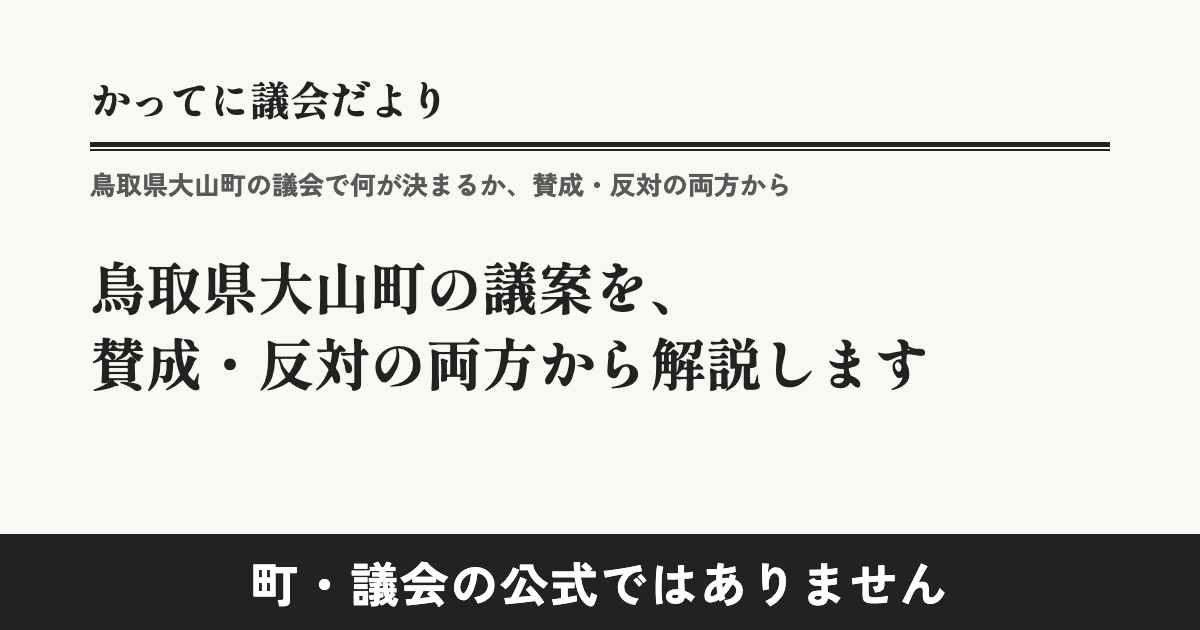
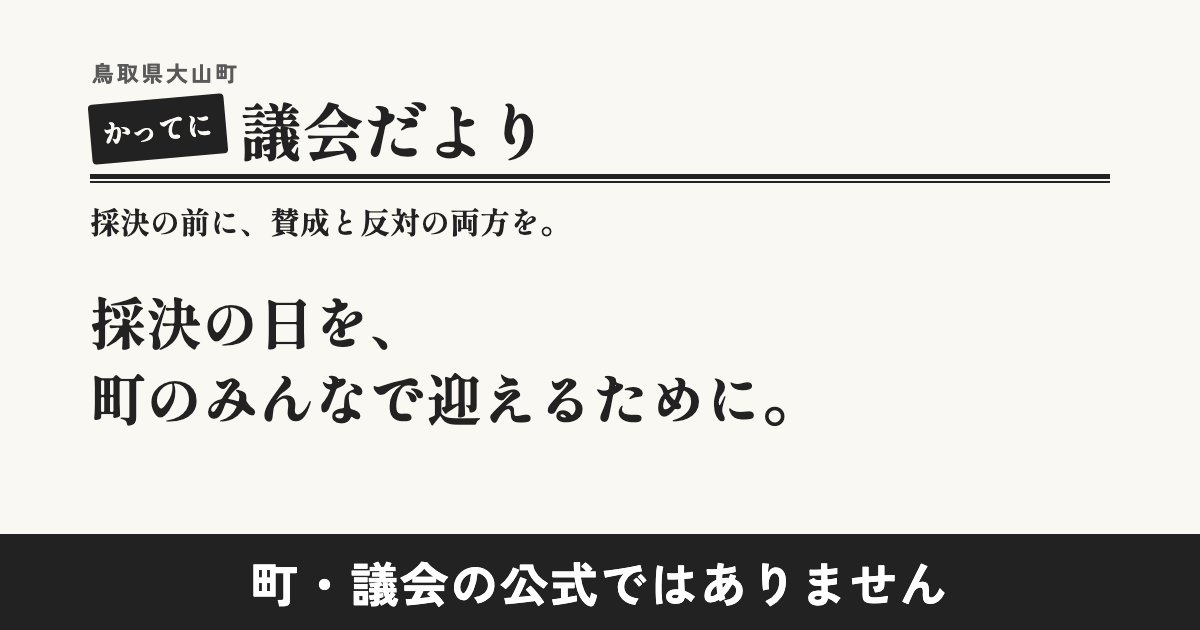
題字をロゴ化、副題とトップを見直し、運営方針・ルール・プライバシー・お知らせ・運営者ページを整理
- 題字を「かってに」の判子＋大きな「議会だより」に。副題は「採決の前に、賛成と反対の両方を。」
- トップ：採決の前に出すことを軸にした導入、第1号のダイジェストと「続きを読む」、採決までの流れ図、お約束を箇条書きに
- 「採決前に全議員へ届ける」をやめ、委員会審査の約3日後に公開・採決まで約1週間声を受け付ける流れに
- 運営方針から取材・届け方・訂正と反論・改定記録を削除。議員向けページも同様に整理
- 投稿のルールを「基本匿名・実名も歓迎・不適切な内容は運営者判断で削除」に
- プライバシーから使い道・保存先と期間・改定記録を削除
- お知らせは当面Instagram・Facebook。届くものを2〜3回に
- 運営者ページに経歴（年表）とSNS、フッターに運営者についてのリンク。広告・寄付の記載を削除
- OGP画像を新しい題字で作り直し

Changed region(s): [[0.0617, 0.0905, 0.925, 0.3921], [0.0617, 0.4222, 0.7708, 0.6937]]

diff --git a/src/styles/global.css b/src/styles/global.css
@@ -43,17 +43,29 @@ p { margin: 0 0 1em; }
 .wide { max-width: 960px; margin: 0 auto; padding: 0 20px; }
 
 /* 非公式の帯 */
-.hikoshiki { background: var(--kiri); border-bottom: 1px solid var(--kei); font-size: 15px; line-height: 1.5; }
+.hikoshiki { background: var(--kiri); border-bottom: 1px solid var(--kei); font-size: 14px; line-height: 1.5; }
 .hikoshiki a { display: block; padding: 8px 20px; max-width: 960px; margin: 0 auto; text-decoration: none; }
 
 /* ヘッダー */
-.site-header { max-width: 960px; margin: 0 auto; padding: 14px 16px 6px 20px; display: flex; justify-content: space-between; align-items: flex-start; gap: 8px; }
-@media (min-width: 768px) { .daiji { font-size: 24px; } }
-.daiji { font-family: var(--mincho); font-weight: 800; font-size: 19px; line-height: 1.2; margin: 0; white-space: nowrap; }
-.daiji a { text-decoration: none; }
-.daiji small { font-size: 1em; margin-left: .3em; }
-.site-header .futasuji { margin-top: 6px; }
-.fukudai { font-size: 15px; color: var(--usuzumi); line-height: 1.5; margin: 6px 0 0; }
+.site-header { max-width: 960px; margin: 0 auto; padding: 16px 16px 8px 20px; }
+.head-row { display: flex; justify-content: space-between; align-items: flex-end; gap: 8px; }
+.logo { display: inline-block; text-decoration: none; color: var(--sumi); line-height: 1; }
+.logo-place { display: block; font-size: 13px; font-weight: 700; letter-spacing: .12em; color: var(--usuzumi); margin: 0 0 6px 2px; }
+.logo-row { display: flex; align-items: center; gap: 8px; white-space: nowrap; }
+.logo-katte {
+  display: inline-block; background: var(--sumi); color: var(--kami);
+  font-family: var(--mincho); font-weight: 800; font-size: clamp(12px, 3.6vw, 15px); letter-spacing: .04em;
+  padding: 6px 7px 7px; border-radius: 3px; transform: rotate(-5deg); flex-shrink: 0;
+}
+.logo-main { font-family: var(--mincho); font-weight: 800; font-size: clamp(25px, 7.4vw, 34px); letter-spacing: .02em; }
+@media (min-width: 768px) {
+  .logo-place { font-size: 14px; }
+  .logo-katte { font-size: 19px; padding: 7px 9px 8px; }
+  .logo-main { font-size: 46px; }
+}
+.site-header .futasuji { margin-top: 10px; }
+.fukudai { font-family: var(--mincho); font-weight: 700; font-size: 17px; color: var(--sumi); line-height: 1.5; margin: 8px 0 0; }
+@media (min-width: 768px) { .fukudai { font-size: 20px; } }
 .tbtn {
   white-space: nowrap;
   font: 700 15px/1.2 var(--gothic); min-height: 48px; min-width: 48px; padding: 4px 8px; flex-shrink: 0;
@@ -149,15 +161,43 @@ table.data td.n { text-align: right; white-space: nowrap; }
 .kairan h2 { font-family: var(--mincho); font-size: calc(var(--base) * 1.2); margin: 0 0 8px; }
 
 /* トップ */
-.hero { padding: 26px 0 8px; }
-.hero p { font-size: calc(var(--base) * 1.05); }
-.feature { background: var(--men); border: 1px solid var(--sumi); padding: 0 18px 18px; margin: 18px 0 28px; display: block; text-decoration: none; }
-.feature > .futasuji { margin: 0 -18px 12px; }
-.feature .t { font-family: var(--mincho); font-weight: 700; font-size: calc(var(--base) * 1.35); line-height: 1.45; margin: 4px 0 8px; display: block; }
-.steps { list-style: none; padding: 0; margin: 10px 0 0; counter-reset: s; }
-.steps li { border-left: 1px solid var(--sumi); padding: 0 0 14px 18px; position: relative; }
-.steps li::before { counter-increment: s; content: counter(s); position: absolute; left: -12px; top: 0; width: 24px; height: 24px; background: var(--kami); border: 1px solid var(--sumi); border-radius: 50%; font-size: 14px; line-height: 22px; text-align: center; font-weight: 700; }
-.steps li:last-child { border-left-color: transparent; }
+.hero { padding: 28px 0 6px; }
+.hero .catch { font-family: var(--mincho); font-weight: 800; font-size: calc(var(--base) * 1.55); line-height: 1.5; margin: 0 0 14px; word-break: auto-phrase; text-wrap: balance; }
+.hero p { font-size: calc(var(--base) * 1.02); line-height: 1.85; margin: 0 0 10px; }
+.hero .who { display: grid; grid-template-columns: 1fr; gap: 10px; margin: 16px 0 0; }
+@media (min-width: 600px) { .hero .who { grid-template-columns: 1fr 1fr; } }
+.hero .who div { background: var(--men); border: 1px solid var(--kei); padding: 12px 14px; font-size: 16px; line-height: 1.6; }
+.hero .who b { display: block; font-family: var(--mincho); font-size: calc(var(--base) * 1.05); margin-bottom: 2px; }
+.kicker { font-size: 15px; font-weight: 700; color: var(--usuzumi); letter-spacing: .08em; margin: 34px 0 8px; }
+.feature { background: var(--men); border: 2px solid var(--sumi); padding: 0 18px 18px; margin: 0 0 28px; display: block; text-decoration: none; }
+.feature > .futasuji { margin: 0 -18px 14px; }
+.feature .t { font-family: var(--mincho); font-weight: 700; font-size: calc(var(--base) * 1.35); line-height: 1.45; margin: 4px 0 12px; display: block; word-break: auto-phrase; }
+.feature .nums { display: flex; align-items: baseline; justify-content: center; gap: 10px; background: var(--kiri); padding: 12px 8px; margin: 0 0 14px; font-family: var(--mincho); font-weight: 800; }
+.feature .nums .n { font-size: 40px; line-height: 1; }
+.feature .nums .n small { font-size: 16px; margin-left: 2px; }
+.feature .nums .arrow { font-size: 22px; color: var(--usuzumi); }
+.feature .nums .cap { display: block; font: 700 13px/1.3 var(--gothic); color: var(--usuzumi); text-align: center; margin-top: 4px; }
+.feature .digest { list-style: none; padding: 0; margin: 0 0 14px; }
+.feature .digest li { border-top: 1px solid var(--kei); padding: 9px 0 9px 1.2em; text-indent: -1.2em; line-height: 1.6; }
+.feature .digest li::before { content: "■"; font-size: .7em; margin-right: .75em; vertical-align: .15em; }
+.feature .readmore { display: flex; justify-content: center; align-items: center; min-height: 52px; background: var(--sumi); color: #fff; font-weight: 700; border-radius: 4px; }
+.nagare { list-style: none; padding: 0; margin: 14px 0 6px; }
+.nagare li { position: relative; padding: 0 0 18px 34px; }
+.nagare li::before { content: ""; position: absolute; left: 7px; top: 4px; width: 14px; height: 14px; border-radius: 50%; border: 2px solid var(--sumi); background: var(--kami); }
+.nagare li.gikai::before { background: var(--sumi); }
+.nagare li::after { content: ""; position: absolute; left: 15px; top: 22px; bottom: 2px; border-left: 2px solid var(--sumi); }
+.nagare li:last-child::after { display: none; }
+.nagare .who { display: inline-block; font-size: 13px; font-weight: 700; border: 1px solid var(--sumi); padding: 0 6px; margin-right: 6px; vertical-align: .1em; }
+.nagare li.gikai .who { background: var(--sumi); color: #fff; }
+.nagare b { font-family: var(--mincho); font-size: calc(var(--base) * 1.08); }
+.nagare .when { display: block; font-size: 15px; color: var(--usuzumi); line-height: 1.5; margin-top: 2px; }
+.nagare .hl { display: block; background: var(--kairan); padding: 6px 10px; margin-top: 6px; font-size: 16px; line-height: 1.6; }
+
+.yakusoku-list { list-style: none; padding: 0; margin: 0; }
+.yakusoku-list li { background: var(--men); border: 1px solid var(--kei); padding: 12px 14px 12px 46px; margin: 0 0 8px; position: relative; line-height: 1.7; }
+.yakusoku-list li .mk { position: absolute; left: 14px; top: 12px; font-family: var(--mincho); font-weight: 800; font-size: 20px; line-height: 1.4; }
+.sns { display: flex; flex-wrap: wrap; gap: 8px; margin: 12px 0 0; }
+.sns a { display: inline-flex; align-items: center; min-height: 48px; padding: 6px 14px; background: var(--men); border: 1.5px solid var(--sumi); border-radius: 4px; font-weight: 700; text-decoration: none; }
 h2.sec { font-family: var(--mincho); font-weight: 700; font-size: calc(var(--base) * 1.25); line-height: 1.45; margin: 40px 0 12px; }
 h2.sec::before { content: ""; display: block; height: 6px; margin-bottom: 12px; background: linear-gradient(var(--sumi), var(--sumi)) top / 100% 3px no-repeat, linear-gradient(var(--sumi), var(--sumi)) bottom / 100% 1px no-repeat; }
 
@@ -212,3 +252,8 @@ h2.sec::before { content: ""; display: block; height: 6px; margin-bottom: 12px; 
 .cmp th, .cmp td { border-bottom: 1px solid var(--kei); padding: 8px 6px; text-align: left; vertical-align: top; }
 .cmp thead th { border-bottom: 2px solid var(--sumi); }
 .cmp td.em { font-weight: 700; }
+
+/* 経歴 */
+.keireki { display: grid; grid-template-columns: auto 1fr; margin: 0; }
+.keireki dt, .keireki dd { border-top: 1px solid var(--kei); padding: 10px 0; margin: 0; line-height: 1.6; }
+.keireki dt { font-weight: 700; font-size: 15px; padding-right: 14px; white-space: nowrap; }

diff --git a/src/config/site.ts b/src/config/site.ts
@@ -1,15 +1,18 @@
 // サイト全体の設定。名前とURLはここを直せば全ページに反映される
 export const SITE = {
   name: 'かってに議会だより',
-  subtitle: '鳥取県大山町の議会で何が決まるか、賛成・反対の両方から',
+  subtitle: '採決の前に、賛成と反対の両方を。',
+  place: '鳥取県大山町',
   description:
-    '鳥取県大山町の議会で何が決まるかを、賛成・反対の両方から解説し、町民の声を議員に届けます。町・議会の公式サイトではありません。',
+    '鳥取県大山町議会の注目の議案を、採決の前に賛成・反対の両方から解説し、町民の声を集めます。大山町・大山町議会の公式サイトではありません。',
   notOfficial: '大山町・大山町議会の公式サイトではありません',
   operator: '小谷英介',
   operatorTitle: '元大山町議会議員',
-  // 公開前に差し替える
   contactEmail: 'kodani.policy@gmail.com',
   questionFormUrl: 'https://docs.google.com/forms/d/e/1FAIpQLSdUwtcUlozsJidSxWqXoo9-XFHrKQ-KYZTJ6tX3UlIIOf-UlA/viewform',
   lineUrl: '',
+  instagramUrl: 'https://www.instagram.com/kodani.life/',
+  facebookUrl: 'https://www.facebook.com/kodani.policy/',
+  youtubeUrl: 'https://www.youtube.com/@eisukekodani7885',
   officialGikaiUrl: 'https://www.daisen.jp/gikai/',
 };
